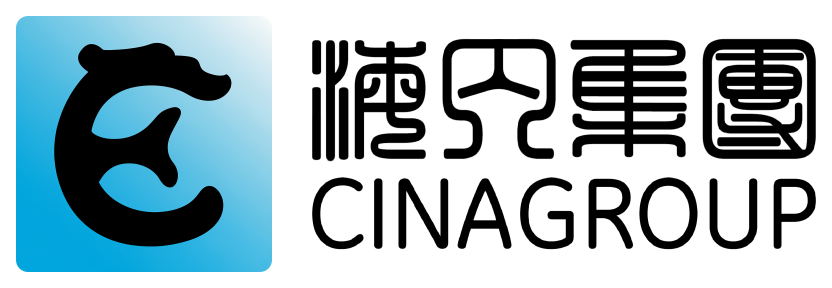
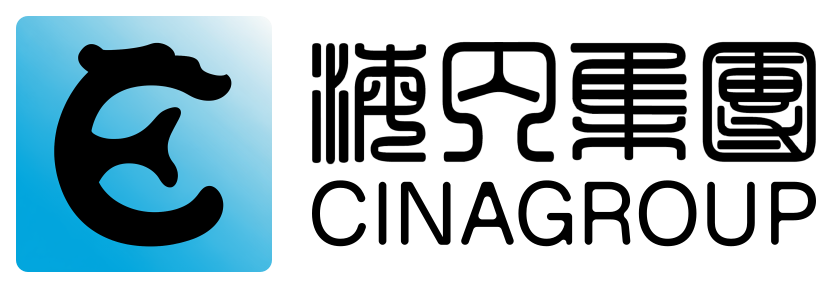
fix: sync CinaBrand v2.1.1 wordmark

Changed region(s): [[0.375, 0.125, 1.0, 0.5938], [0.375, 0.5938, 1.0, 0.875], [0.375, 0.125, 0.4375, 0.1562]]

diff --git a/docs/cinabrand.md b/docs/cinabrand.md
@@ -1,13 +1,13 @@
 # CinaBrand assets
 
 Website brand assets are copied unchanged from `cinagroup/cinabrand`, asset version
-`2.0.2`, commit `b0c04aa2e7447df4dcad8e0fe78791a661d35036`. Assets are served locally;
+`2.1.1`, commit `e2ed2e6bf2e4a42de2d23e4e5737071219067387`. Assets are served locally;
 there is no runtime dependency on GitHub or a third-party CDN.
 
 | Website file                                  | CinaBrand source                                     | SHA-256                                                            |
 | --------------------------------------------- | ---------------------------------------------------- | ------------------------------------------------------------------ |
[7 lines of base64/hex data omitted]
@@ -15,12 +15,15 @@ there is no runtime dependency on GitHub or a third-party CDN.
[1 lines of base64/hex data omitted]
 
 All page headers use the official horizontal lockup containing the original
-Chinese `海内集团` and English `CINAGROUP` lettering. The 832 × 288 PNG is displayed
-at 56 CSS pixels tall with its original aspect ratio and safety padding preserved.
+Chinese `海内集团` lettering and the custom rounded Geist Regular `CINAGROUP`
+wordmark. The v2.1.1 English artwork preserves the two sharp inner joins in the
+letter N. Lettering is part of the supplied PNG and does not depend on web fonts.
+The 832 × 288 PNG is displayed at 56 CSS pixels tall with its original aspect ratio
+and safety padding preserved.
 Dark mode uses the matching official white-lettering lockup; the color symbol is
 unchanged between themes. No separate typeset company name is added.
 
-The v2.0.2 horizontal lockups and favicons use the official corner radius of
+The horizontal lockups and favicons retain the official corner radius of
 4.6875% of the blue symbol's side length. Corners scale with the artwork; no
 additional CSS rounding or clipping is applied to the combined logo.
 
